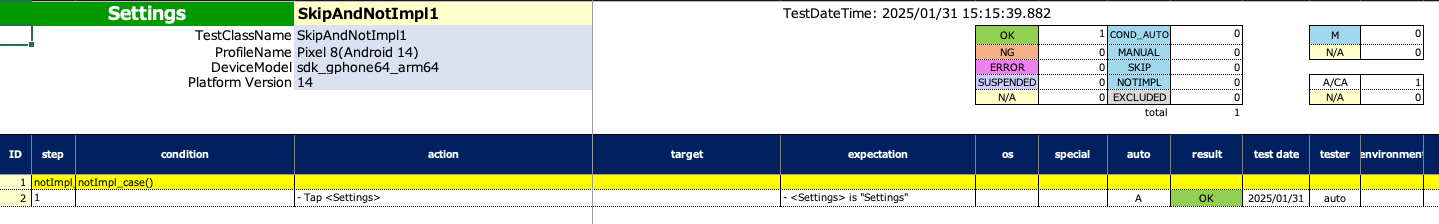
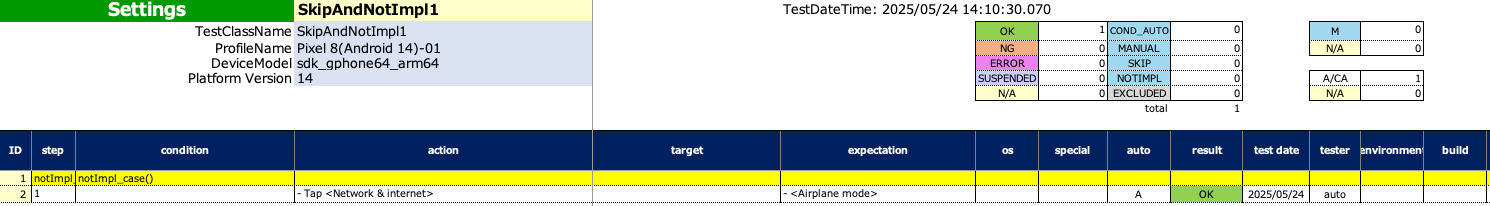
Document Update

diff --git a/doc/markdown/vision/basic/function_property/test_flow_control/skip_notimpl.md b/doc/markdown/vision/basic/function_property/test_flow_control/skip_notimpl.md
@@ -31,17 +31,16 @@ You can skip or abort test using these functions.
                         SKIP_CASE("case(1) skipped.")   // Skip execution of commands (log only)
                     }
                 }.action {
-                    it.tap("Settings")  // Skipped
+                    it.tap("Network & internet")  // Skipped
                 }.expectation {
-                    it.textIs("Settings")    // Skipped
+                    it.exist("Airplane mode")   // Skipped
                 }
             }
-
             case(2) {
                 action {
-                    it.tap("Settings")  // Executed
+                    it.tap("Network & internet")  // Executed
                 }.expectation {
-                    it.textIs("Settings")    // Executed
+                    it.exist("Airplane mode")   // Executed
                 }
             }
         }
@@ -51,6 +50,9 @@ You can skip or abort test using these functions.
 ### Spec-Report
 
 ![](_images/skip_case_spec_report.png)
+
+<br>
+<br>
 
 ```kotlin
     @Test
@@ -65,17 +67,16 @@ You can skip or abort test using these functions.
                         SKIP_SCENARIO()     // Skip execution of commands (log only)
                     }
                 }.action {
-                    it.tap("Settings")  // Skipped
+                    it.tap("Network & internet")  // Skipped
                 }.expectation {
-                    it.textIs("Settings")    // Skipped
+                    it.exist("Airplane mode")   // Skipped
                 }
             }
-
             case(2) {
                 action {
-                    it.tap("Settings")  // Skipped
+                    it.tap("Internet")  // Skipped
                 }.expectation {
-                    it.textIs("Settings")    // Skipped
+                    it.exist("AndroidWifi")   // Skipped
                 }
             }
         }
@@ -86,6 +87,9 @@ You can skip or abort test using these functions.
 
 ![](_images/skip_scenario_spec_report.png)
 
+<br>
+<br>
+
 ```kotlin
     @Test
     @Order(30)
@@ -94,27 +98,25 @@ You can skip or abort test using these functions.
         scenario {
             case(1) {
                 action {
-                    it.tap("Settings")  // Executed
+                    it.tap("Network & internet")  // Executed
                 }.expectation {
-                    it.textIs("Settings")    // Executed
+                    it.exist("Airplane mode")   // Executed
                 }
             }
-
             case(2) {
                 condition {
                     NOTIMPL()   // Abort this test
                 }.action {
-                    it.tap("Settings")  // Not reached
+                    it.tap("Internet")  // Not reached
                 }.expectation {
-                    it.textIs("Settings")   // Not reached
+                    it.exist("AndroidWifi")   // Not reached
                 }
             }
-
             case(3) {
                 action {
-                    it.tap("Settings")  // Not reached
+                    it.tap("AndroidWifi")  // Not reached
                 }.expectation {
-                    it.textIs("Settings")    // Not reached
+                    it.exist("Network details")    // Not reached
                     NOTIMPL("To be implement.")     // Not reached
                 }
             }
@@ -126,6 +128,9 @@ You can skip or abort test using these functions.
 
 ![](_images/notimpl_case_spec_report.png)
 
+<br>
+<br>
+
 ```kotlin
     @Test
     @Order(40)
@@ -134,19 +139,11 @@ You can skip or abort test using these functions.
         scenario {
             NOTIMPL()   // Abort this scenario
 
-            case(1) {   // Not reached
+            case(1) {
                 action {
-                    it.tap("Settings")
+                    it.tap("Network & internet")    // Not reached
                 }.expectation {
-                    it.textIs("Settings")
-                }
-            }
-
-            case(2) {   // Not reached
-                action {
-                    it.tap("Settings")
-                }.expectation {
-                    it.textIs("Settings")
+                    it.exist("Airplane mode")   // Not reached
                 }
             }
         }

diff --git a/doc/markdown/vision/basic/function_property/test_flow_control/skip_notimpl_ja.md b/doc/markdown/vision/basic/function_property/test_flow_control/skip_notimpl_ja.md
@@ -31,17 +31,16 @@
                         SKIP_CASE("case(1) skipped.")   // Skip execution of commands (log only)
                     }
                 }.action {
-                    it.tap("設定")  // Skipped
+                    it.tap("ネットワークとインターネット")  // Skipped
                 }.expectation {
-                    it.textIs("設定")    // Skipped
+                    it.exist("機内モード")    // Skipped
                 }
             }
-
             case(2) {
                 action {
-                    it.tap("設定")  // Executed
+                    it.tap("ネットワークとインターネット")  // Executed
                 }.expectation {
-                    it.textIs("設定")    // Executed
+                    it.exist("機内モード")    // Executed
                 }
             }
         }
@@ -51,6 +50,9 @@
 ### Spec-Report
 
 ![](_images/skip_case_spec_report_ja.png)
+
+<br>
+<br>
 
 ```kotlin
     @Test
@@ -65,17 +67,16 @@
                         SKIP_SCENARIO()     // Skip execution of commands (log only)
                     }
                 }.action {
-                    it.tap("設定")  // Skipped
+                    it.tap("ネットワークとインターネット")  // Skipped
                 }.expectation {
-                    it.textIs("設定")    // Skipped
+                    it.exist("機内モード")    // Skipped
                 }
             }
-
             case(2) {
                 action {
-                    it.tap("設定")  // Skipped
+                    it.tap("インターネット")  // Skipped
                 }.expectation {
-                    it.textIs("設定")    // Skipped
+                    it.exist("ネットワークを追加")    // Skipped
                 }
             }
         }
@@ -86,6 +87,9 @@
 
 ![](_images/skip_scenario_spec_report_ja.png)
 
+<br>
+<br>
+
 ```kotlin
     @Test
     @Order(30)
@@ -94,27 +98,25 @@
         scenario {
             case(1) {
                 action {
-                    it.tap("設定")  // Executed
+                    it.tap("ネットワークとインターネット")  // Executed
                 }.expectation {
-                    it.textIs("設定")    // Executed
+                    it.exist("機内モード")    // Executed
                 }
             }
-
             case(2) {
                 condition {
                     NOTIMPL()   // Abort this test
                 }.action {
-                    it.tap("設定")  // Not reached
+                    it.tap("ネットワークとインターネット")  // Not reached
                 }.expectation {
-                    it.textIs("設定")   // Not reached
+                    it.exist("機内モード")    // Not reached
                 }
             }
-
             case(3) {
                 action {
-                    it.tap("設定")  // Not reached
+                    it.tap("インターネット")  // Not reached
                 }.expectation {
-                    it.textIs("設定")    // Not reached
+                    it.exist("ネットワークを追加")    // Not reached
                     NOTIMPL("To be implement.")     // Not reached
                 }
             }
@@ -126,6 +128,9 @@
 
 ![](_images/notimpl_case_spec_report_ja.png)
 
+<br>
+<br>
+
 ```kotlin
     @Test
     @Order(40)
@@ -134,19 +139,11 @@
         scenario {
             NOTIMPL()   // Abort this scenario
 
-            case(1) {   // Not reached
+            case(1) {
                 action {
-                    it.tap("設定")
+                    it.tap("ネットワークとインターネット")    // Not reached
                 }.expectation {
-                    it.textIs("設定")
-                }
-            }
-
-            case(2) {   // Not reached
-                action {
-                    it.tap("設定")
-                }.expectation {
-                    it.textIs("設定")
+                    it.exist("機内モード")   // Not reached
                 }
             }
         }

diff --git a/doc/markdown/classic/basic/function_property/asserting_others/package_assertion_ja.md b/doc/markdown/classic/basic/function_property/asserting_others/package_assertion_ja.md
@@ -22,15 +22,15 @@
         scenario {
             case(1) {
                 condition {
-                    it.macro("[Android Settings Top Screen]")
+                    it.macro("[Android設定トップ画面]")
                 }.expectation {
                     it.packageIs("com.android.settings")
                 }
             }
-
             case(2) {
                 action {
-                    it.launchApp("Chrome")
+                    it.launchApp("[Chrome]")
+                        .wait(5)
                 }.expectation {
                     it.packageIs("com.android.chrome")
                 }
@@ -45,7 +45,7 @@
         scenario {
             case(1) {
                 condition {
-                    it.macro("[Android Settings Top Screen]")
+                    it.macro("[Android設定トップ画面]")
                 }.expectation {
                     it.packageIs("com.android.chrome")
                 }

diff --git a/doc/markdown/classic/basic/function_property/asserting_others/package_assertion.md b/doc/markdown/classic/basic/function_property/asserting_others/package_assertion.md
@@ -27,10 +27,10 @@ You can assert package of current app using these functions.
                     it.packageIs("com.android.settings")
                 }
             }
-
             case(2) {
                 action {
-                    it.launchApp("Chrome")
+                    it.launchApp("[Chrome]")
+                        .wait(5)
                 }.expectation {
                     it.packageIs("com.android.chrome")
                 }
